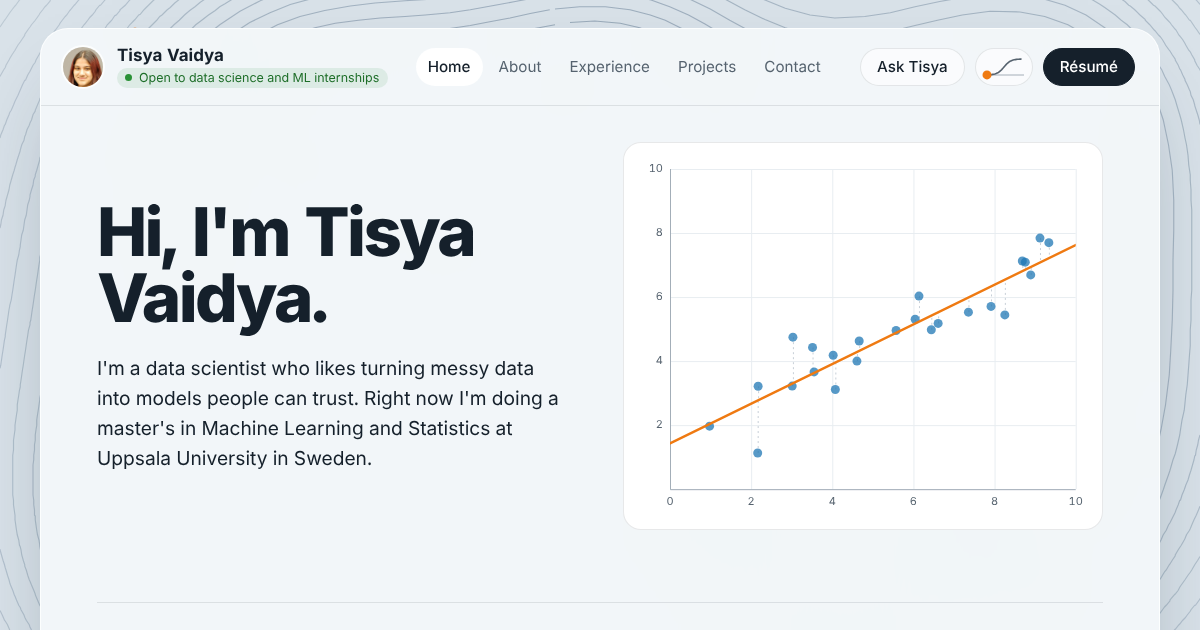
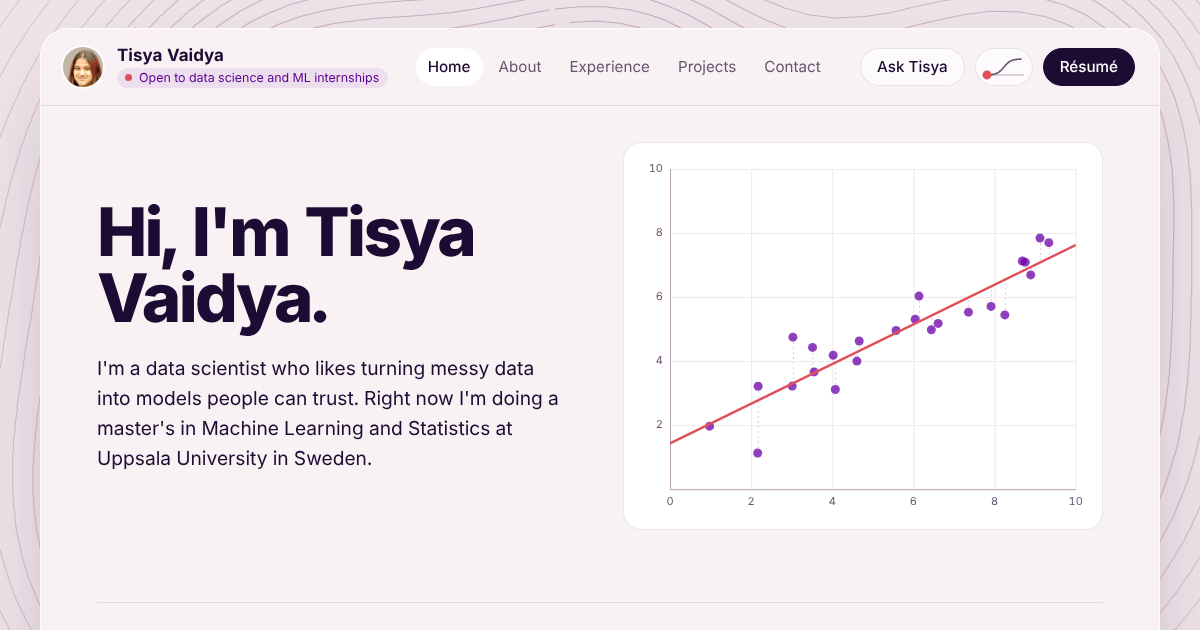
Plasma palette, fixed dark mode, theme kept across pages, GitHub links for 10 projects

diff --git a/css/site.css b/css/site.css
@@ -5,60 +5,62 @@
 
 :root {
   color-scheme: light;
-  --bg: #D9E2E9;
-  --contour: #5F7890;
-  --card: rgba(249, 251, 252, 0.8);
+  --bg: #EEE3E8;
+  --contour: #9C7590;
+  --card: rgba(251, 246, 248, 0.8);
   --card-edge: rgba(255, 255, 255, 0.75);
-  --card-shadow: 0 40px 90px -40px rgba(20, 40, 60, 0.45);
-  --surface: rgba(255, 255, 255, 0.62);
+  --card-shadow: 0 40px 90px -40px rgba(60, 20, 70, 0.4);
+  --surface: rgba(255, 255, 255, 0.6);
   --surface-hover: rgba(255, 255, 255, 0.92);
-  --ink: #15202B;
-  --muted: #56636F;
-  --rule: rgba(21, 32, 43, 0.1);
-  --blue: #1F77B4;          /* matplotlib C0 */
-  --blue-text: #145B8D;
-  --orange: #EF7A12;        /* matplotlib C1 */
-  --green: #2A9136;         /* matplotlib C2 */
+  --ink: #1E0B33;
+  --muted: #66546F;
+  --rule: rgba(30, 11, 51, 0.1);
+  /* Plasma colormap: violet, coral, amber */
+  --blue: #6A00A8;          /* main series (violet) */
+  --blue-text: #5B0091;
+  --orange: #E0505A;        /* accent (coral) */
+  --green: #D9770B;         /* third series (amber) */
   --on-solid: #FFFFFF;
-  --solid: #15202B;
-  --solid-hover: #2B3948;
-  --badge-bg: rgba(42, 145, 54, 0.1);
-  --badge-ink: #1E6E29;
+  --solid: #1E0B33;
+  --solid-hover: #35204A;
+  --badge-bg: rgba(106, 0, 168, 0.08);
+  --badge-ink: #5B0091;
   --plot-bg: #FFFFFF;
-  --plot-grid: #E8EDF1;
-  --plot-axis: #A3AEB8;
-  --plot-resid: #C7CFD7;
-  --dialog-bg: #FBFCFD;
+  --plot-grid: #F1E7ED;
+  --plot-axis: #B8A5B3;
+  --plot-resid: #DDCBD6;
+  --dialog-bg: #FCF8FA;
 
   --font: "Schibsted Grotesk", system-ui, -apple-system, "Segoe UI", sans-serif;
 }
 
 :root[data-theme="dark"] {
   color-scheme: dark;
-  --bg: #0C141E;
-  --contour: #4F7397;
-  --card: rgba(17, 25, 36, 0.78);
-  --card-edge: rgba(255, 255, 255, 0.08);
-  --card-shadow: 0 40px 90px -40px rgba(0, 0, 0, 0.8);
-  --surface: rgba(255, 255, 255, 0.045);
-  --surface-hover: rgba(255, 255, 255, 0.09);
-  --ink: #E8EDF3;
-  --muted: #9AA8B6;
-  --rule: rgba(255, 255, 255, 0.1);
-  --blue: #5AA9E6;
-  --blue-text: #8DC5F1;
-  --orange: #FF9A3D;
-  --green: #5FC665;
-  --on-solid: #0F1722;
-  --solid: #E8EDF3;
+  --bg: #0E0C12;
+  --contour: #3B3150;
+  --card: rgba(24, 21, 31, 0.84);
+  --card-edge: rgba(255, 255, 255, 0.07);
+  --card-shadow: 0 40px 90px -40px rgba(0, 0, 0, 0.85);
+  --surface: rgba(255, 255, 255, 0.04);
+  --surface-hover: rgba(255, 255, 255, 0.08);
+  --ink: #F2EEF6;
+  --muted: #A9A1B4;
+  --rule: rgba(255, 255, 255, 0.09);
+  /* Bright end of the Plasma colormap */
+  --blue: #EC6A7D;          /* main series (coral-pink) */
+  --blue-text: #F59AB0;
+  --orange: #FCC438;        /* accent (yellow) */
+  --green: #B77AF0;         /* third series (light violet) */
+  --on-solid: #16131C;
+  --solid: #F2EEF6;
   --solid-hover: #FFFFFF;
-  --badge-bg: rgba(95, 198, 101, 0.12);
-  --badge-ink: #8BDB8F;
-  --plot-bg: #111A26;
-  --plot-grid: #1E2A38;
-  --plot-axis: #4A5A6B;
-  --plot-resid: #344355;
-  --dialog-bg: #131C28;
+  --badge-bg: rgba(252, 196, 56, 0.12);
+  --badge-ink: #FCD46A;
+  --plot-bg: #15121B;
+  --plot-grid: #25212E;
+  --plot-axis: #4E465C;
+  --plot-resid: #3A3446;
+  --dialog-bg: #18151F;
 }
 
 /* ------------------------------------------------------------------ Base */
@@ -117,7 +119,7 @@ main { padding: 56px 64px 64px; }
   font-size: .78rem; line-height: 1; padding: 4px 9px 4px 8px; border-radius: 999px;
   background: var(--badge-bg); color: var(--badge-ink);
 }
-.pulse { width: 7px; height: 7px; border-radius: 50%; background: var(--green); }
+.pulse { width: 7px; height: 7px; border-radius: 50%; background: var(--orange); }
 
 .nav { display: flex; gap: 4px; margin: 0 auto; }
 .nav a { color: var(--muted); text-decoration: none; padding: 7px 12px; border-radius: 999px; font-size: .95rem; }
@@ -315,7 +317,7 @@ dialog[open] { animation: pop .22s ease-out; }
 .msg { max-width: 85%; padding: 10px 14px; border-radius: 16px; font-size: .97rem; line-height: 1.45; }
 .msg.me { align-self: flex-start; background: var(--surface-hover); border: 1px solid var(--rule); border-bottom-left-radius: 5px; }
 .msg.you { align-self: flex-end; background: var(--blue); color: #fff; border-bottom-right-radius: 5px; }
-:root[data-theme="dark"] .msg.you { color: #0C141E; }
+:root[data-theme="dark"] .msg.you { color: #16131C; }
 .msg.typing { color: var(--muted); letter-spacing: .2em; }
 .ask-chips { display: flex; flex-wrap: wrap; gap: 6px; padding: 0 22px 12px; }
 .ask-chips .chip { font-size: .85rem; padding: 6px 12px; }

diff --git a/js/data.js b/js/data.js
@@ -142,7 +142,7 @@ window.SITE = {
       id: "loanlens", category: "ml", chart: "bars",
       title: "LoanLens: loan approval prediction",
       stack: ["Python", "scikit-learn", "Pandas", "Seaborn"],
-      link: "",
+      link: "https://github.com/tisyavaidya/Loan-Approval-Prediction-Model",
       summary: "Compared five classifiers on 500+ loan applications, reaching about 77% accuracy.",
       body: [
         "An end-to-end machine learning pipeline for predicting loan approval from 12+ financial and demographic features.",
@@ -167,7 +167,7 @@ window.SITE = {
       id: "jobpulse", category: "ml", chart: "hist",
       title: "JobPulse: job market scraper",
       stack: ["Python", "Requests", "BeautifulSoup", "Pandas"],
-      link: "",
+      link: "https://github.com/tisyavaidya/Web-Scrapping--Naukri.com",
       summary: "Scraped and structured 1,000+ Naukri.com job listings for market analysis.",
       body: [
         "A scraping pipeline that collects job title, company, location, experience and description from Naukri.com.",
@@ -178,7 +178,7 @@ window.SITE = {
       id: "mindscope", category: "analytics", chart: "dashboard",
       title: "MindScope: workplace mental health dashboard",
       stack: ["Tableau"],
-      link: "",
+      link: "https://github.com/tisyavaidya/Mental-Health-Analysis-Dashboard-Tableau",
       summary: "An interactive dashboard over 1,200+ workplace mental health survey responses.",
       body: [
         "Visualisations of demographic trends, workplace support and how people report mental health.",
@@ -189,7 +189,7 @@ window.SITE = {
       id: "niftypulse", category: "analytics", chart: "line",
       title: "NiftyPulse: Nifty 50 market analysis",
       stack: ["Power BI", "DAX", "Power Query"],
-      link: "",
+      link: "https://github.com/tisyavaidya/NiftyPulse-Nifty-50-Market-Analysis",
       summary: "Five years of Nifty 50 index data in an interactive Power BI dashboard.",
       body: [
         "Prepared the data in Power Query and wrote DAX measures for financial indicators.",
@@ -200,7 +200,7 @@ window.SITE = {
       id: "salesvision", category: "analytics", chart: "bars2",
       title: "SalesVision: sales analytics",
       stack: ["Excel", "Pivot tables"],
-      link: "",
+      link: "https://github.com/tisyavaidya/Sales-Dashboard-Excel",
       summary: "Pivot tables and slicers over 10,000+ sales records.",
       body: [
         "Tracks revenue, regional performance and product category trends.",
@@ -211,7 +211,7 @@ window.SITE = {
       id: "tripvista", category: "analytics", chart: "map",
       title: "TripVista: travel data analysis",
       stack: ["MySQL"],
-      link: "",
+      link: "https://github.com/tisyavaidya/Trip-Summary-SQL",
       summary: "A relational model of a travel booking system, queried for insight.",
       body: [
         "Models itineraries, bookings, destinations and reviews in a relational database.",

diff --git a/js/site.js b/js/site.js
@@ -11,11 +11,21 @@
   const $$ = (sel, root = document) => Array.from(root.querySelectorAll(sel));
 
   /* ------------------------------------------------------------ Theme */
-  function storedTheme() { try { return localStorage.getItem("theme"); } catch (e) { return null; } }
+  // The choice is kept in localStorage, and also in window.name, which survives page changes
+  // in the same tab even where storage is blocked (private modes, embedded previews).
+  function storedTheme() {
+    let t = null;
+    try { t = localStorage.getItem("theme"); } catch (e) { /* storage unavailable */ }
+    if (!t) { const m = /(?:^|;)theme=(dark|light)/.exec(window.name || ""); if (m) t = m[1]; }
+    return t;
+  }
   function currentTheme() { return document.documentElement.dataset.theme === "dark" ? "dark" : "light"; }
   function setTheme(t, remember) {
     document.documentElement.dataset.theme = t;
-    if (remember) { try { localStorage.setItem("theme", t); } catch (e) { /* storage unavailable */ } }
+    if (remember) {
+      try { localStorage.setItem("theme", t); } catch (e) { /* storage unavailable */ }
+      window.name = (window.name || "").replace(/(?:^|;)theme=(dark|light)/, "") + ";theme=" + t;
+    }
     document.dispatchEvent(new CustomEvent("themechange", { detail: t }));
   }
   // Follow the system setting until the visitor makes a choice

diff --git a/about.html b/about.html
@@ -17,6 +17,7 @@
     /* Apply the saved or system theme before the page paints */
     (function () {
       var t = null; try { t = localStorage.getItem("theme"); } catch (e) {}
+      if (!t) { var m = /(?:^|;)theme=(dark|light)/.exec(window.name || ""); if (m) t = m[1]; }
       if (!t) t = window.matchMedia && window.matchMedia("(prefers-color-scheme: dark)").matches ? "dark" : "light";
       document.documentElement.dataset.theme = t;
     })();

diff --git a/contact.html b/contact.html
@@ -17,6 +17,7 @@
     /* Apply the saved or system theme before the page paints */
     (function () {
       var t = null; try { t = localStorage.getItem("theme"); } catch (e) {}
+      if (!t) { var m = /(?:^|;)theme=(dark|light)/.exec(window.name || ""); if (m) t = m[1]; }
       if (!t) t = window.matchMedia && window.matchMedia("(prefers-color-scheme: dark)").matches ? "dark" : "light";
       document.documentElement.dataset.theme = t;
     })();

diff --git a/experience.html b/experience.html
@@ -17,6 +17,7 @@
     /* Apply the saved or system theme before the page paints */
     (function () {
       var t = null; try { t = localStorage.getItem("theme"); } catch (e) {}
+      if (!t) { var m = /(?:^|;)theme=(dark|light)/.exec(window.name || ""); if (m) t = m[1]; }
       if (!t) t = window.matchMedia && window.matchMedia("(prefers-color-scheme: dark)").matches ? "dark" : "light";
       document.documentElement.dataset.theme = t;
     })();

diff --git a/index.html b/index.html
@@ -17,6 +17,7 @@
     /* Apply the saved or system theme before the page paints */
     (function () {
       var t = null; try { t = localStorage.getItem("theme"); } catch (e) {}
+      if (!t) { var m = /(?:^|;)theme=(dark|light)/.exec(window.name || ""); if (m) t = m[1]; }
       if (!t) t = window.matchMedia && window.matchMedia("(prefers-color-scheme: dark)").matches ? "dark" : "light";
       document.documentElement.dataset.theme = t;
     })();

diff --git a/projects.html b/projects.html
@@ -17,6 +17,7 @@
     /* Apply the saved or system theme before the page paints */
     (function () {
       var t = null; try { t = localStorage.getItem("theme"); } catch (e) {}
+      if (!t) { var m = /(?:^|;)theme=(dark|light)/.exec(window.name || ""); if (m) t = m[1]; }
       if (!t) t = window.matchMedia && window.matchMedia("(prefers-color-scheme: dark)").matches ? "dark" : "light";
       document.documentElement.dataset.theme = t;
     })();
